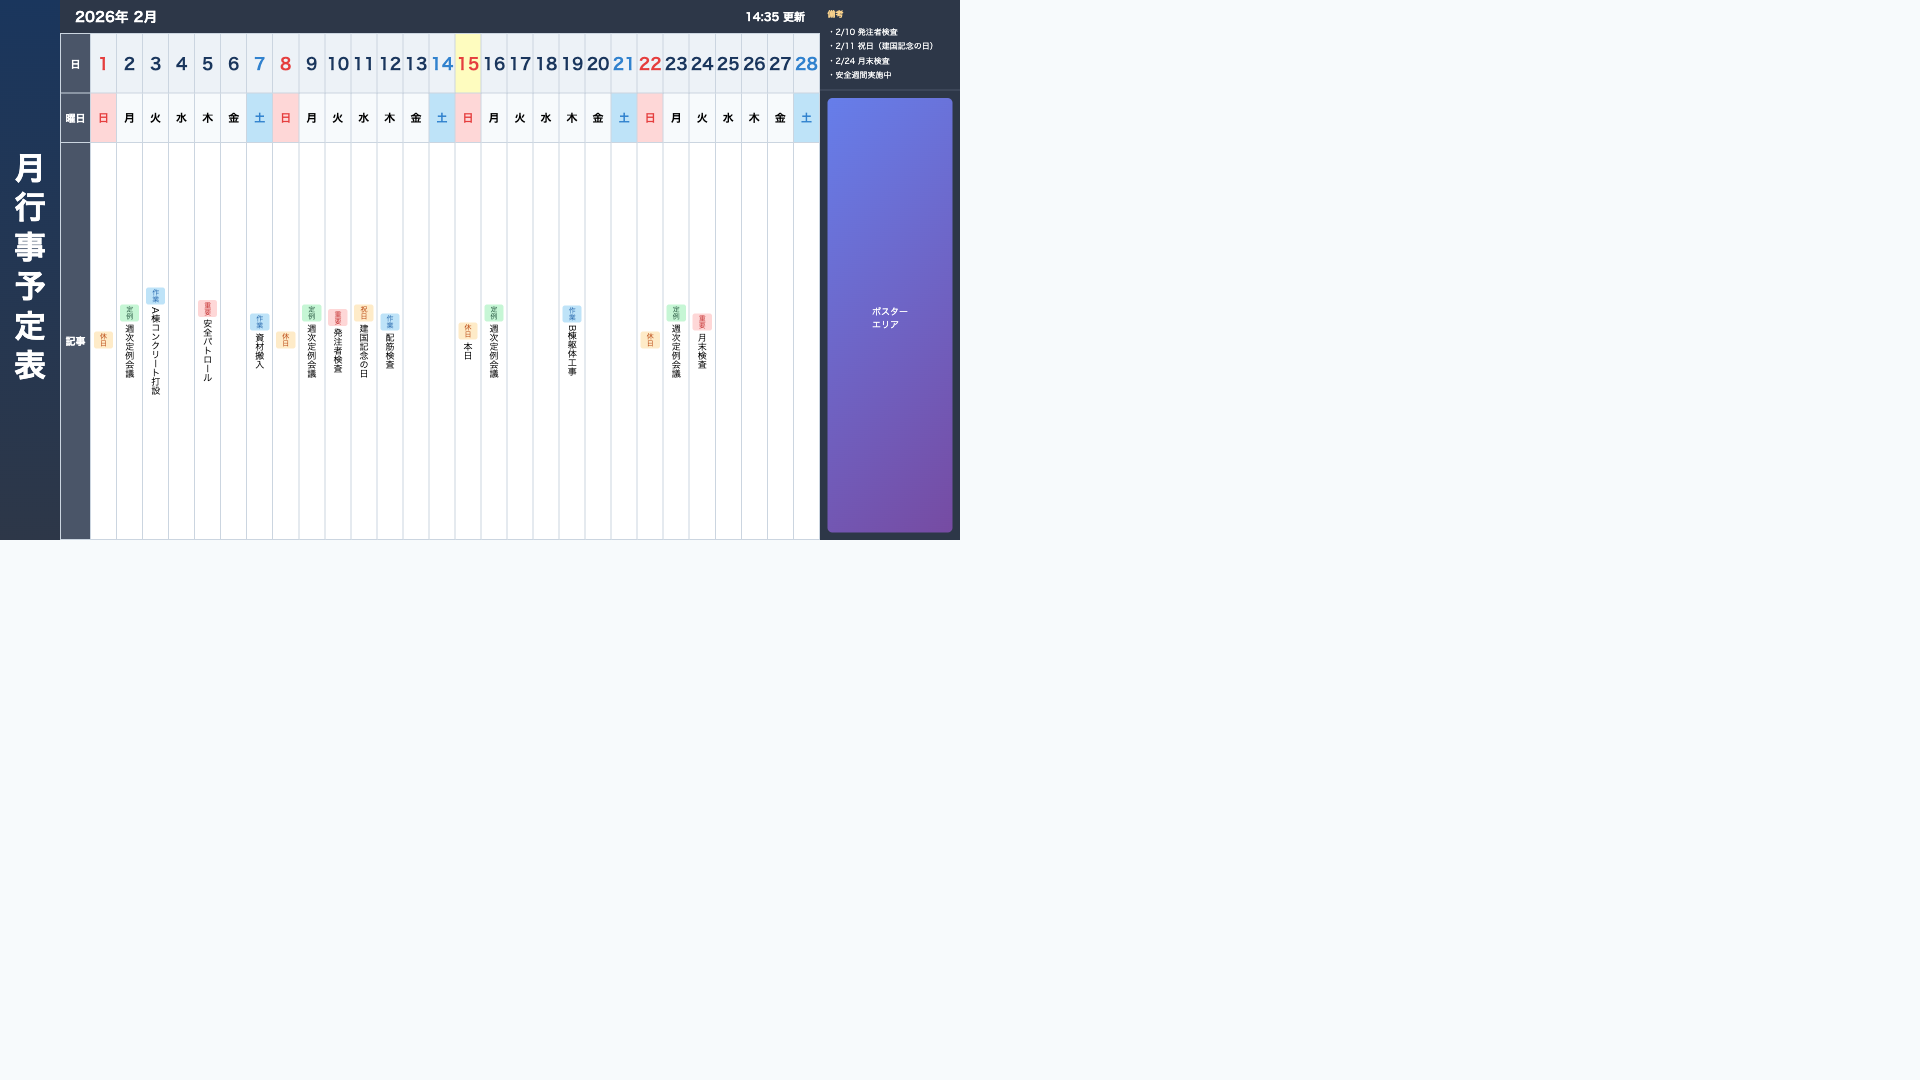
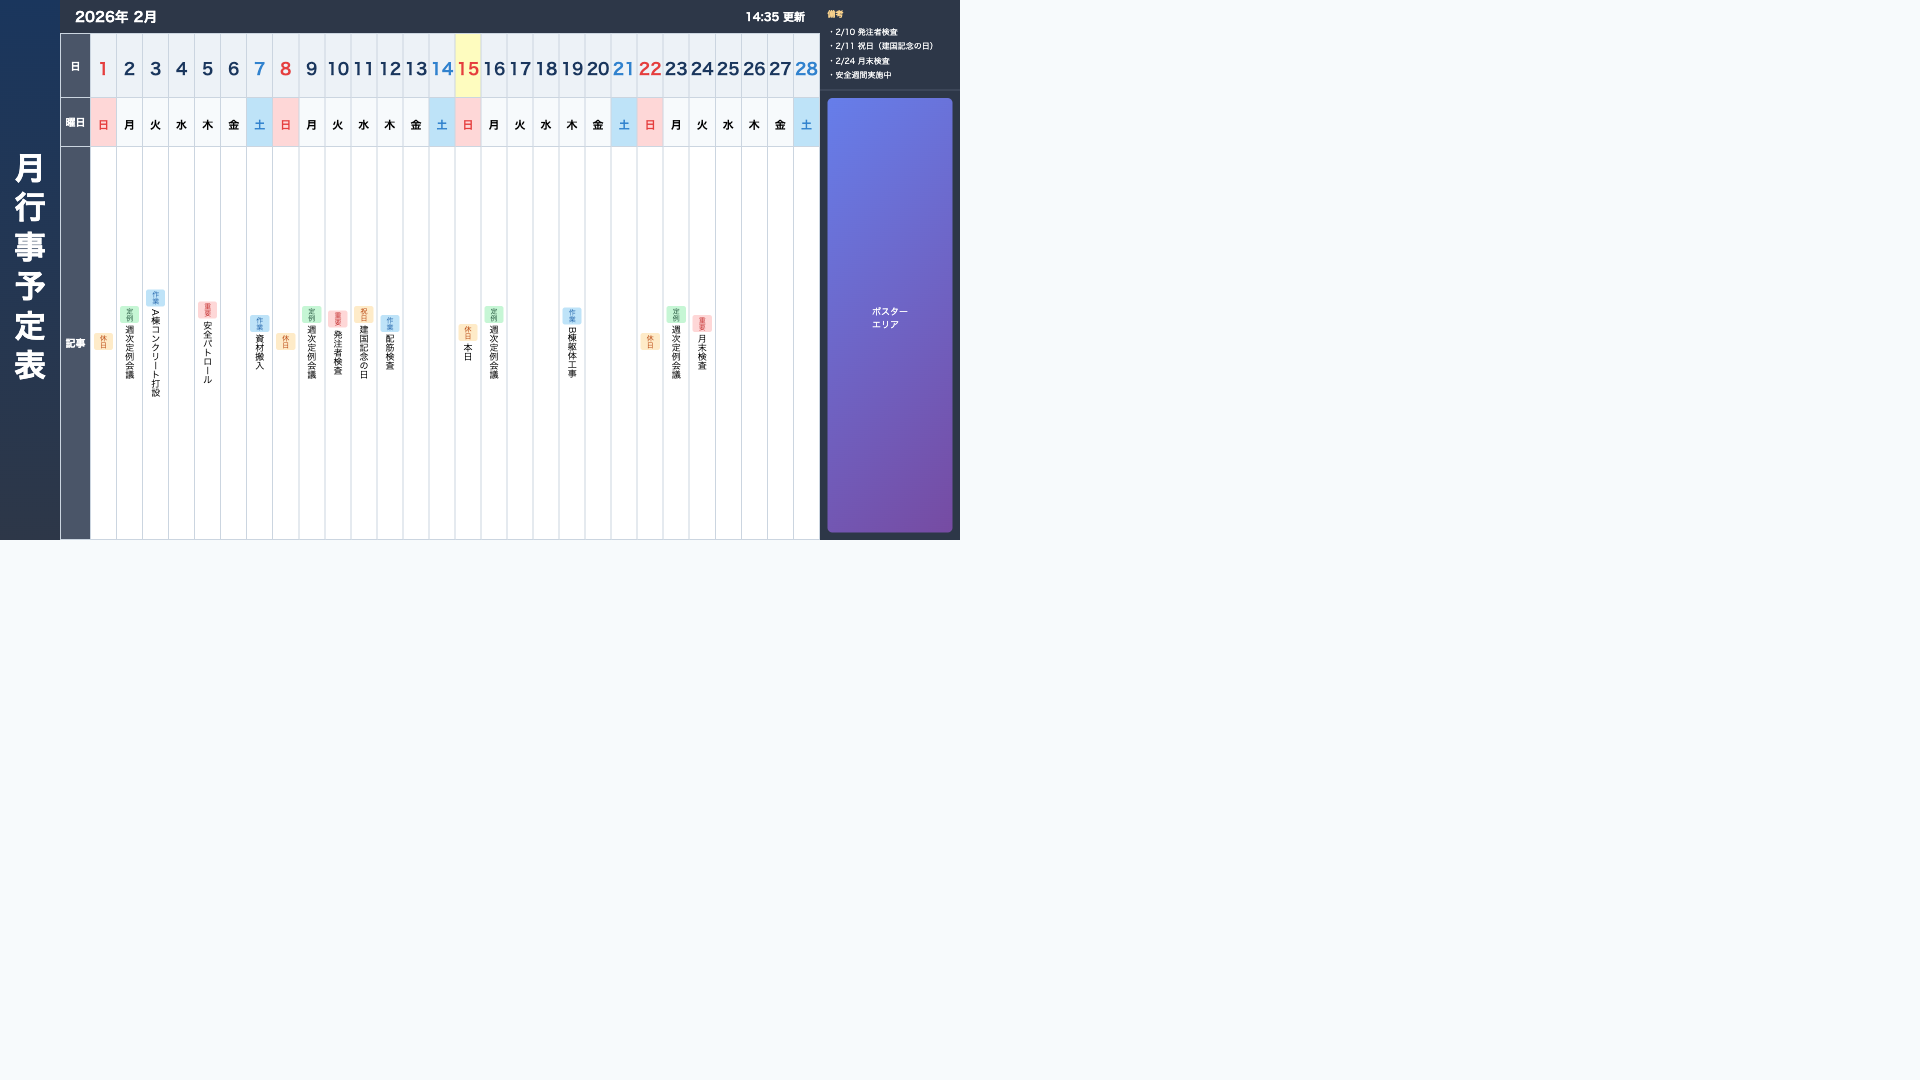
Monthly schedule: align top instead of center

diff --git a/screens/horizontal/02_月間行事予定表.html b/screens/horizontal/02_月間行事予定表.html
@@ -97,6 +97,8 @@
       font-weight: 700;
       color: #1a365d;
       height: 60px;
+      vertical-align: top;
+      padding-top: 15px;
     }
     .day-cell.today {
       background: #fefcbf;
@@ -111,6 +113,8 @@
       font-weight: 600;
       height: 50px;
       background: #f7fafc;
+      vertical-align: top;
+      padding-top: 12px;
     }
     .dow-cell.sun { color: #e53e3e; background: #fed7d7; }
     .dow-cell.sat { color: #3182ce; background: #bee3f8; }
